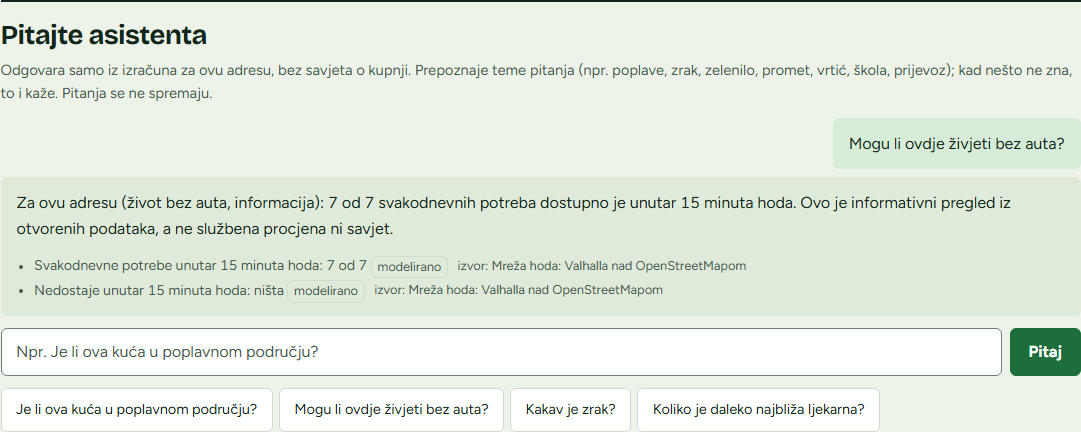
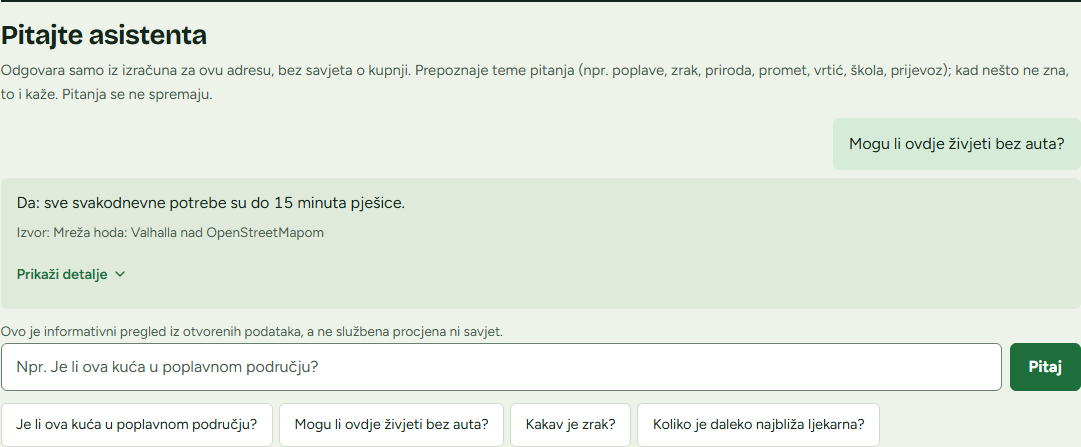
docs: refresh screenshots after the rating and assistant changes

diff --git a/frontend/tests/screenshots/screenshots.spec.ts b/frontend/tests/screenshots/screenshots.spec.ts
@@ -117,7 +117,7 @@ test('assistant', async ({ page }) => {
   await page.setViewportSize({ width: 1280, height: 900 })
   await page.goto(reportUrl(byId('zagreb')))
   await page.getByRole('button', { name: 'Mogu li ovdje živjeti bez auta?' }).click()
-  await expect(page.getByText(/svakodnevnih potreba je do 15 minuta pješice/)).toBeVisible()
+  await expect(page.locator('.assistant').getByText(/do 15 minuta pješice/)).toBeVisible()
   const section = page.locator('section', { has: page.getByRole('heading', { name: 'Pitajte asistenta' }) })
   await section.screenshot({ path: `${OUT}/asistent.png` })
 })
